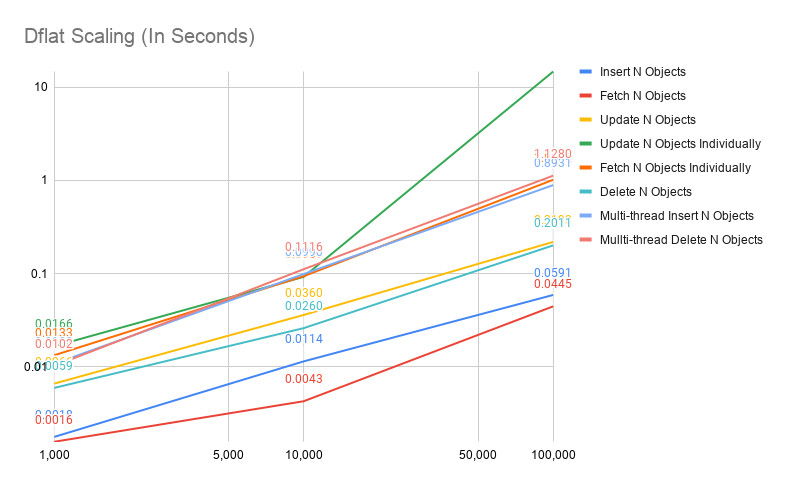
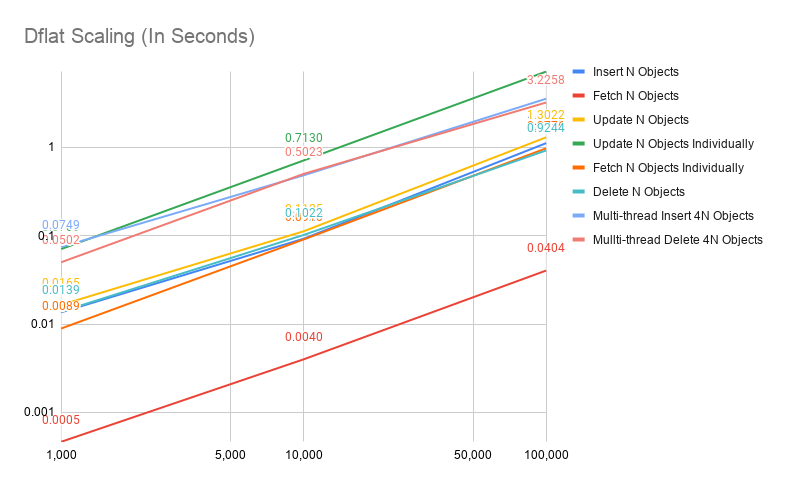
Updated benchmark, it is hard.

diff --git a/README.md b/README.md
@@ -326,15 +326,15 @@ A proper way of doing multi-thread insertions / deletions in Core Data are consi
 
 ![](docs/dflat-vs-core-data.png)
 
-Some of these numbers looks too good to be true. For example, on insertions, **Dflat** appears 20 times faster than Core Data. Some of these numbers didn't make intuitive sense, why multi-thread insertions are slower? Putting it in perspective is important.
+Some of these numbers looks too good to be true. For example, on insertions, **Dflat** appears more than twice as fast as Core Data. Some of these numbers didn't make intuitive sense, why multi-thread insertions are slower? Putting it in perspective is important.
 
 ![](docs/wcdb-vs-fmdb-vs-dflat.png)
 
-The chart compared against numbers extracted from WCDB Benchmark (v1.0.8.2) without any modifications. It compares ops per seconds rather than time spent fetching 3,334 objects. Note that in WCDB Benchmark, Baseline Read did fetch all, which is the best case scenario in SQLite. It also compares a simple table with only two columns, a key and a blob payload (100 bytes).
+The chart compared against numbers extracted from WCDB Benchmark (v1.0.8.2) without any modifications. It compares ops per seconds rather than time spent fetching 33,334 objects. Note that in WCDB Benchmark, Baseline Read did fetch all, which is the best case scenario in SQLite. It also compares a simple table with only two columns, a key and a blob payload (100 bytes).
 
 Multi-thread writes is indeed slower in our ideal case, because SQLite itself cannot execute writes concurrently. Thus, our multi-writer mode really just means these transaction closures can be executed concurrently. The writes still happen serially at SQLite layer. It is still beneficial because in real-world cases, we spend significant time in the transaction closure for data transformations, rather than SQLite writes.
 
-The ceiling for writes is higher than what **Dflat** achieved. Again, WCDB represents an ideal case where you have only two columns. **Dflat** numbers in real-world would also be lower than what we had here, because we will have more indexes and objects with many fields, even arrays of data.
+The ceiling for writes is much higher than what **Dflat** achieved. Again, WCDB represents an ideal case where you have only two columns. **Dflat** numbers in real-world would also be lower than what we had here, because we will have more indexes and objects with many fields, even arrays of data.
 
 Since **Dflat** doesn't introduce any optimizations for batch operations, it shouldn't be a surprise that **Dflat** performance scales linearly w.r.t. dataset size, as the follow chart will show.
 
